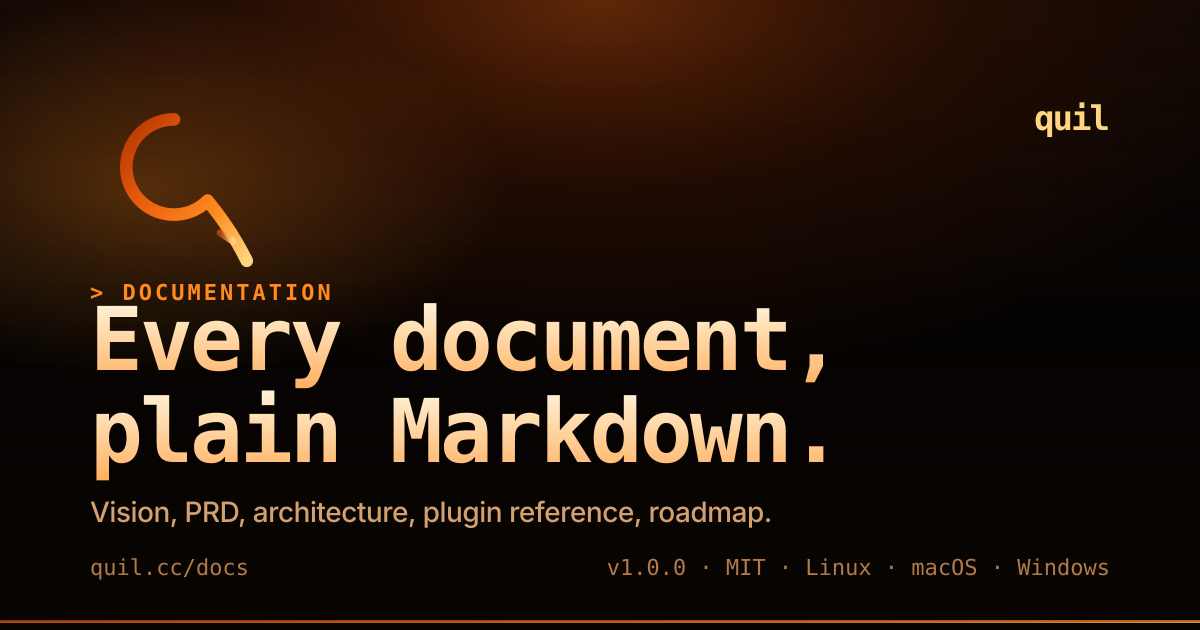
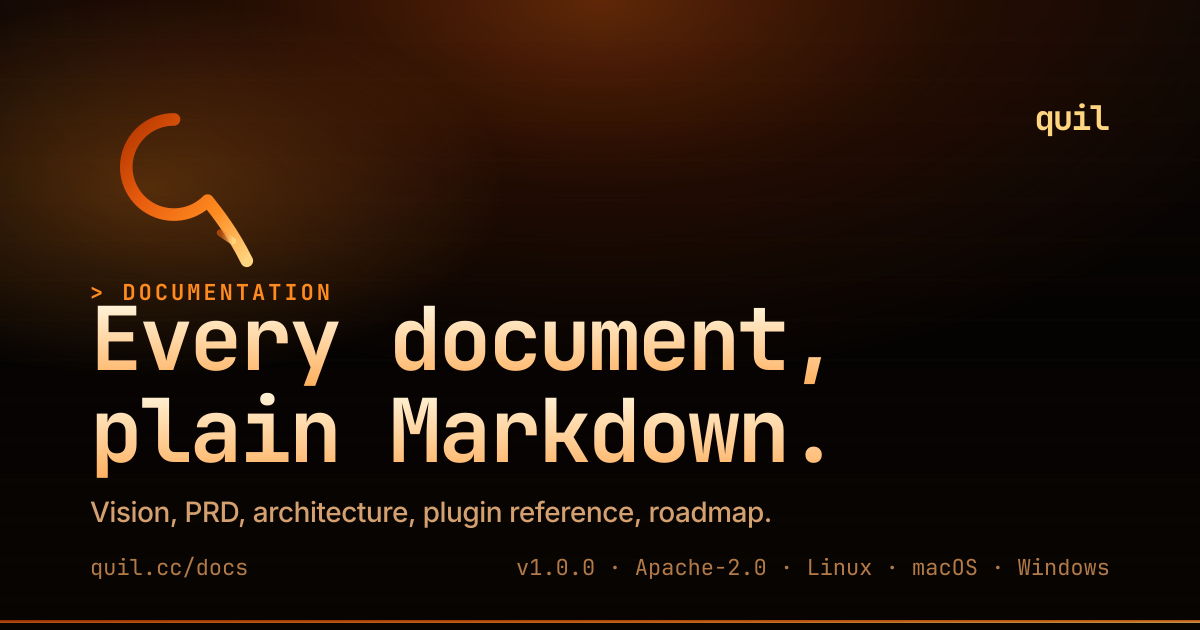
chore(license): name the MIT holdout and fix stale MIT claims (#226)
## Summary

- **NOTICE names the one contribution still under MIT.** The author of
#116 did not answer the relicensing request in #180 (opened 2026-08-20).
As #180 promised, those changes stay under MIT. NOTICE said such
contributions exist but not which ones, while `/legal` told readers
NOTICE "says which".
- **`/legal` no longer calls it pending.** It says one contribution
remains under MIT and that NOTICE names it.
- **The two README rows from #151 are rewritten** in new words, as #181
offered. No text from that PR remains in the tree.
- **Share images say Apache-2.0.** The shared OG template's footer said
`MIT` on all 13 cards, and the `/legal` card's headline was "MIT
licensed.". All 13 PNGs are re-rendered with JetBrains Mono and Inter
installed; `vs-aoe.png` had been rendered without them and showed a
sans-serif headline.

No file here reaches the binary (`README.md`, `NOTICE`, `site/` are on
the changelog denylist), so no fragment and no release.

Refs #180, #181

## Test plan

- [x] `sh scripts/promote-changelog.sh --validate` passes
- [x] `ci.yml` denylist run over the changed paths: nothing reaches the
binary
- [x] `node scripts/build-og.mjs` regenerates every committed SVG
byte-for-byte except the intended lines (1 line per card, 8 on
`legal.svg`)
- [x] Rendered `legal.png`, `vs-aoe.png`, `home.png` inspected: headline
fits inside the card, footer reads `Apache-2.0`
- [ ] `site` CI job builds

diff --git a/README.md b/README.md
@@ -305,8 +305,8 @@ Define your own pane types in TOML — see the [plugin reference](docs/plugin-re
 | **Troubleshooting** | [troubleshooting.md](docs/troubleshooting.md) |
 | **Architecture (31 ADRs)** | [architecture.md](docs/architecture.md) |
 | **Roadmap** | [roadmap.md](docs/roadmap.md) |
-| **Vision** | [vision.md](docs/vision.md) |
-| **Original PRD** | [prd.md](docs/prd.md) |
+| **Why Quil exists** | [vision.md](docs/vision.md) |
+| **v1 requirements (historical)** | [prd.md](docs/prd.md) |
 
 The full doc index lives at [docs/README.md](docs/README.md).
 
